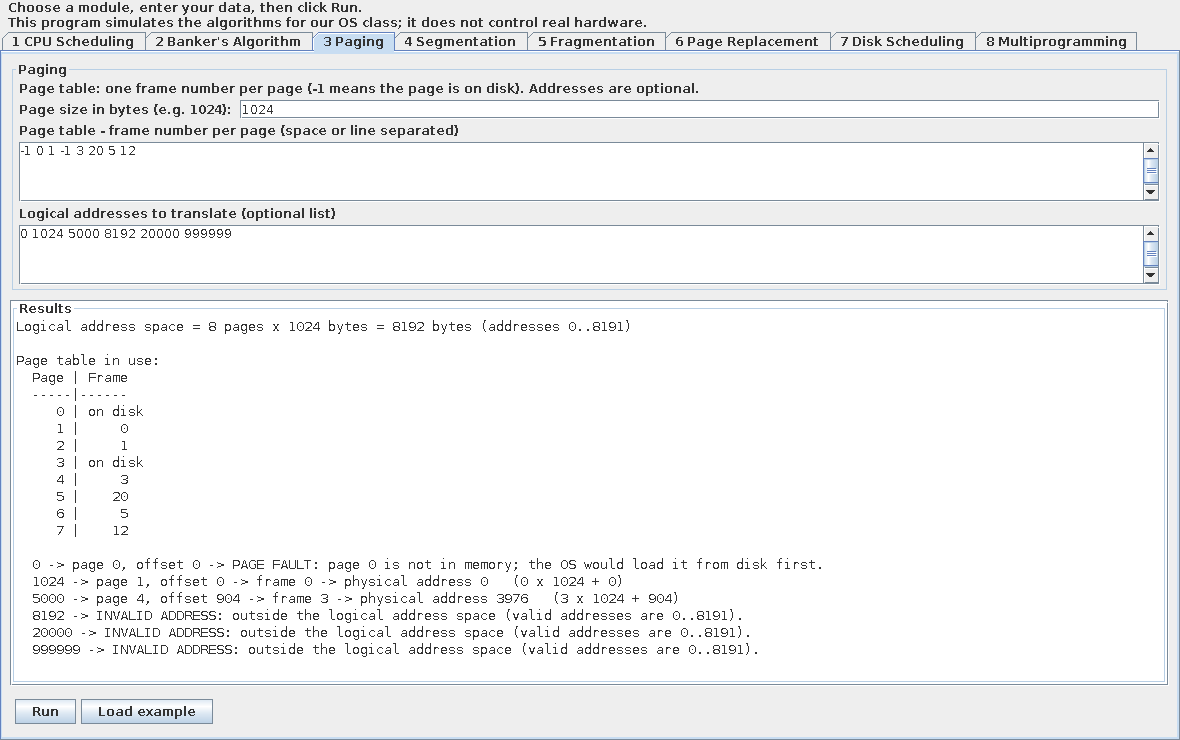
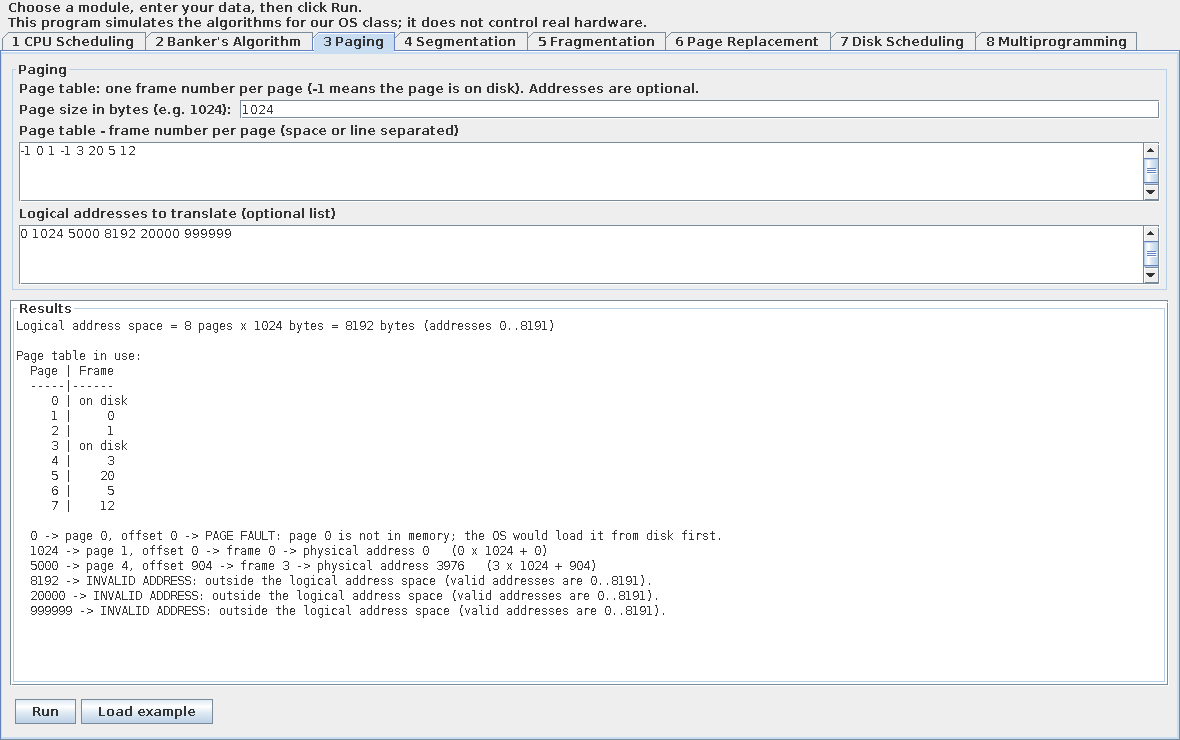
Label process IDs and resource counts the way the rubric words them

diff --git a/src/minios/gui/CpuPanel.java b/src/minios/gui/CpuPanel.java
@@ -39,12 +39,11 @@ public class CpuPanel extends ModulePanel {
 
     public CpuPanel() {
         super("CPU Scheduling",
-                "One line per process: name (optional), arrival time, burst time. "
-                + "The greyed-out boxes are not used by the chosen algorithm.",
+                "One line per process: ID (optional), arrival time, burst time. Greyed-out boxes are unused.",
                 CPUScheduler::run);
         addRow("Algorithm:", algorithm);
         quantumRow = addRow("Time quantum (Round Robin / comparison):", quantum);
-        addWideRow(new JLabel("<html><b>Process names</b> - optional, one per line</html>"));
+        addWideRow(new JLabel("<html><b>Process IDs</b> - optional, one per line (defaults P1, P2, ...)</html>"));
         addWideRow(Ui.scrolled(names));
         addWideRow(new JLabel("<html><b>Arrival times</b> - one per process (0 or more)</html>"));
         addWideRow(Ui.scrolled(arrivals));

diff --git a/src/minios/gui/BankerPanel.java b/src/minios/gui/BankerPanel.java
@@ -34,7 +34,7 @@ public class BankerPanel extends ModulePanel {
 
     public BankerPanel() {
         super("Banker's Algorithm",
-                "One row per process. Allocation and Max need the same number of columns; Available is one row.",
+                "Rows = processes, columns = resource types. Allocation and Max must match; Available is one row.",
                 BankersAlgorithm::run);
         addRow("Mode:", mode);
         addWideRow(new JLabel("<html><b>Allocation matrix</b> - one row per process</html>"));

diff --git a/src/minios/gui/Ui.java b/src/minios/gui/Ui.java
@@ -34,7 +34,7 @@ public final class Ui {
     public static JTextArea outputArea() {
         JTextArea out = new JTextArea(18, 90);
         out.setEditable(false);
-        out.setFont(new Font(Font.MONOSPACED, Font.PLAIN, 13));
+        out.setFont(new Font(Font.MONOSPACED, Font.PLAIN, 12));
         return out;
     }
 

diff --git a/README.md b/README.md
@@ -406,6 +406,14 @@ result: **36 of 36 passed**.
 | Disk scheduling | disk | boundary_disk_ends: request under the head (0 movement) and the far end of the disk | disk_large: 70 requests, all six algorithms |
 | Multiprogramming | multiprogramming | boundary_multi_single: a single job, minimum memory and quantum | multiprogramming_large: 12 jobs with staggered arrivals |
 
+Exceptional cases are tested as well, not only the happy path:
+`cpu_invalid_input` (letters where numbers belong, then a valid answer),
+`boundary_cpu_zero_burst` (a burst of 0 is rejected and re-asked),
+`banker_unsafe` (no safe sequence exists) and `banker_request` (a request
+that is granted and one that is denied), `segmentation_overlap` (two
+segments that overlap), and the addresses in `paging` that fall outside
+the address space.
+
 ### GUI input test
 
 ```
@@ -562,6 +570,6 @@ Likely technical questions and short answers:
 | Dependencies and setup instructions | none beyond a JDK; see "Running the program" |
 | Documentation of modules and algorithms | this README, section "Modules and algorithms" |
 | Sample inputs and outputs | `samples/` and `samples/expected/` (36 pairs) |
-| Test evidence, small and large inputs | testing table above; `SampleTestRunner` output |
+| Test evidence, small and large inputs | testing table above (small, boundary/exceptional and large for all 8 modules); `SampleTestRunner` output |
 | GUI with flexible, user-defined input | list fields with no fixed item limit on every tab |
 | Input validation without crashes | section "Input checking"; `cpu_invalid_input.txt`; GUI dialogs |
